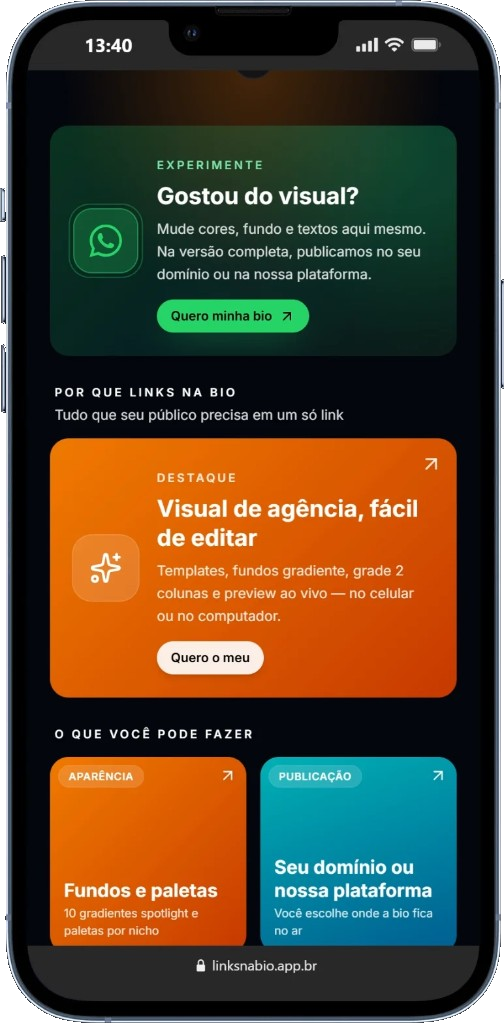
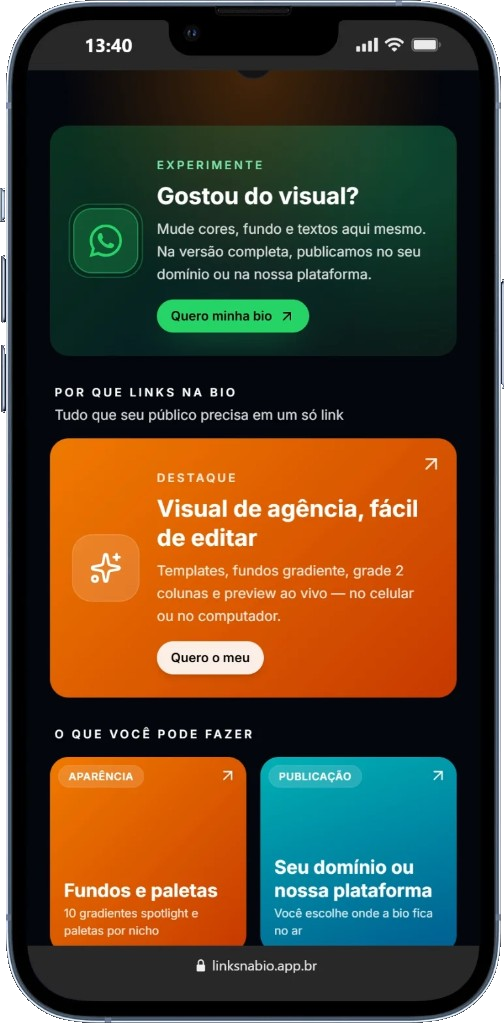
Ajustando o editor e site

diff --git a/site/src/components/sections/Clients.tsx b/site/src/components/sections/Clients.tsx
@@ -1,4 +1,74 @@
-import { PORTFOLIO } from '../../data/content'
+import { useState } from 'react'
+import { PORTFOLIO, type PortfolioItem } from '../../data/content'
+
+/** Mockup de telefone com gradiente — usado quando não há print real. */
+function PortfolioPhoneFallback({ item }: { item: PortfolioItem }) {
+  return (
+    <div
+      className="relative mx-auto aspect-[9/19] w-full overflow-hidden rounded-[1.75rem] border border-line bg-base shadow-[0_20px_40px_rgba(0,0,0,0.45)]"
+      role="img"
+      aria-label={`Prévia ilustrativa — ${item.name} (imagem real pendente)`}
+    >
+      <div
+        aria-hidden
+        className="pointer-events-none absolute inset-x-4 top-10 h-28 rounded-full bg-[radial-gradient(ellipse_at_center,color-mix(in_srgb,var(--color-accent)_28%,transparent),transparent_70%)] blur-2xl"
+      />
+      <div className="relative flex h-full flex-col px-3.5 pb-4 pt-8">
+        <div className="mx-auto size-11 rounded-2xl bg-surface ring-1 ring-line" />
+        <p className="mt-3 truncate text-center text-[11px] font-semibold text-text">{item.name}</p>
+        <p className="mt-0.5 line-clamp-2 text-center text-[9px] leading-snug text-muted">
+          {item.category}
+        </p>
+
+        <div className="mt-5 space-y-2">
+          <div className="rounded-2xl bg-[linear-gradient(145deg,color-mix(in_srgb,var(--color-accent)_72%,#1a1a1a),color-mix(in_srgb,var(--color-accent)_35%,#0a0a0a))] px-3 py-3">
+            <p className="text-[8px] font-semibold uppercase tracking-wider text-white/70">Destaque</p>
+            <p className="mt-1 text-[10px] font-semibold text-white">Agende pelo WhatsApp</p>
+            <div className="mt-2 h-5 w-20 rounded-full bg-white/90" />
+          </div>
+          <div className="h-8 rounded-xl border border-line bg-surface/80" />
+          <div className="h-8 rounded-xl border border-line bg-surface/80" />
+          <div className="grid grid-cols-2 gap-1.5">
+            <div className="aspect-square rounded-xl bg-surface ring-1 ring-line" />
+            <div className="aspect-square rounded-xl bg-surface ring-1 ring-line" />
+          </div>
+        </div>
+
+        <p className="mt-auto pt-3 text-center text-[8px] text-muted/70">
+          {/*
+            TODO(imagem-real): este bloco só aparece quando `item.image` está
+            ausente ou falha ao carregar. Para inserir o print real, defina
+            `image` em PORTFOLIO (site/src/data/content.ts), ex.:
+            image: '/images/portfolio-seu-nicho.png'
+          */}
+          Imagem do nicho em breve
+        </p>
+      </div>
+    </div>
+  )
+}
+
+function PortfolioPhone({ item }: { item: PortfolioItem }) {
+  const [failed, setFailed] = useState(false)
+  const src = item.image?.trim()
+  const showImage = Boolean(src) && !failed
+
+  if (!showImage) {
+    return <PortfolioPhoneFallback item={item} />
+  }
+
+  return (
+    <img
+      src={src}
+      alt={`Exemplo de bio — ${item.name}`}
+      className="w-full bg-transparent drop-shadow-[0_20px_40px_rgba(0,0,0,0.45)]"
+      width={504}
+      height={1024}
+      loading="lazy"
+      onError={() => setFailed(true)}
+    />
+  )
+}
 
 export function Clients() {
   return (
@@ -16,15 +86,8 @@ export function Clients() {
         <ul className="mt-12 grid gap-6 sm:grid-cols-3">
           {PORTFOLIO.map((item) => (
             <li key={item.name} className="text-center">
-              <figure className="mx-auto max-w-[200px]">
-                <img
-                  src={item.image}
-                  alt={`Exemplo de bio — ${item.name}`}
-                  className="w-full drop-shadow-[0_20px_40px_rgba(0,0,0,0.45)]"
-                  width={504}
-                  height={1024}
-                  loading="lazy"
-                />
+              <figure className="mx-auto max-w-[200px] bg-transparent">
+                <PortfolioPhone item={item} />
               </figure>
               <h3 className="mt-5 font-display text-base font-semibold text-text">{item.name}</h3>
               <p className="mt-1 text-sm text-muted">{item.category}</p>

diff --git a/site/src/data/content.ts b/site/src/data/content.ts
@@ -31,25 +31,34 @@ export const HERO_BADGES = [
 export type PortfolioItem = {
   name: string
   category: string
-  image: string
+  /**
+   * Print do celular (mockup com moldura).
+   * Omitir ou deixar `undefined` → fallback visual na seção Clientes
+   * (`PortfolioPhoneFallback` em Clients.tsx).
+   */
+  image?: string
 }
 
-/** Prints reais de bio — substitua por fotos de clientes quando tiver. */
+/**
+ * Prints reais de bio — ordem: esquerda | centro | direita.
+ * Se algum `image` faltar, a UI usa o fallback de telefone com gradiente.
+ */
 export const PORTFOLIO: PortfolioItem[] = [
   {
-    name: 'Saúde & Estética',
-    category: 'Clínicas, dentistas, esteticistas',
-    image: '/images/product-bio-mobile.png',
+    name: 'Igreja & comunidade',
+    category: 'Cultos, eventos e conexão',
+    image: '/images/portfolio-igreja-expressar.png',
   },
   {
-    name: 'Serviços executivos',
-    category: 'Advogados, contadores, arquitetos',
-    image: '/images/product-bio-full.png',
+    name: 'Serviços & marcas',
+    category: 'Profissionais e negócios locais',
+    // Centro: print já existente no site (product-bio-mobile)
+    image: '/images/product-bio-mobile.png',
   },
   {
     name: 'Comércio & serviços',
-    category: 'Lojas, óticas, prestadores',
-    image: '/images/product-bio-mobile.png',
+    category: 'Lojas, papelaria, prestadores',
+    image: '/images/portfolio-home-paper.png',
   },
 ]
 

diff --git a/site/src/components/Header.tsx b/site/src/components/Header.tsx
@@ -47,9 +47,6 @@ export function Header() {
         </nav>
 
         <div className="hidden items-center gap-4 md:flex">
-          <a href={LINKS.login} className="text-sm text-muted transition-colors hover:text-text">
-            Entrar
-          </a>
           <a
             href={LINKS.cta}
             target="_blank"
@@ -83,9 +80,6 @@ export function Header() {
                 {item.label}
               </a>
             ))}
-            <a href={LINKS.login} className="py-3 text-base text-muted" onClick={() => setOpen(false)}>
-              Entrar
-            </a>
             <a
               href={LINKS.cta}
               target="_blank"

diff --git a/site/src/components/sections/EditorShowcase.tsx b/site/src/components/sections/EditorShowcase.tsx
@@ -57,7 +57,7 @@ export function EditorShowcase() {
             />
             <img
               src="/images/editor-preview-mobile.png"
-              alt="Editor da plataforma em uso no celular"
+              alt="Editor da plataforma no celular, com painel de estatísticas da bio"
               className="relative z-10 mx-auto w-full max-w-[260px] drop-shadow-[0_24px_48px_rgba(0,0,0,0.45)] md:hidden"
               width={504}
               height={1024}
